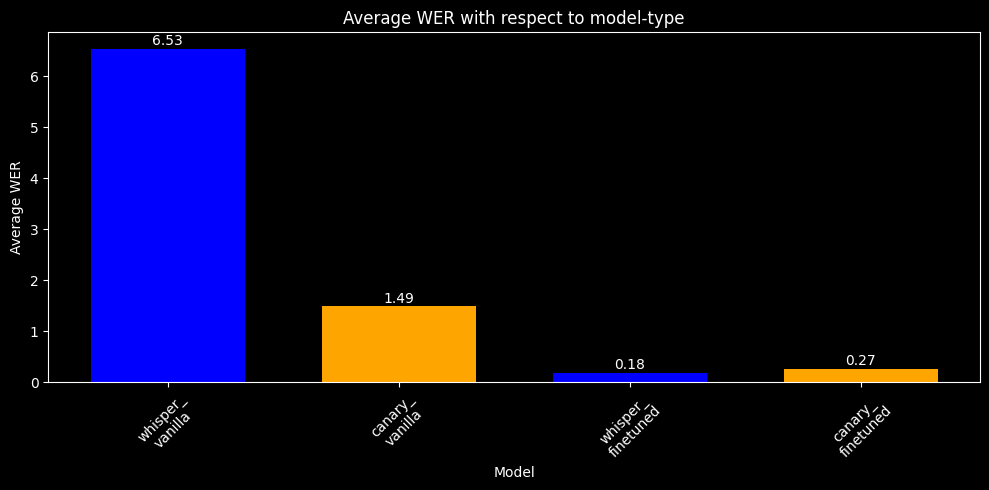
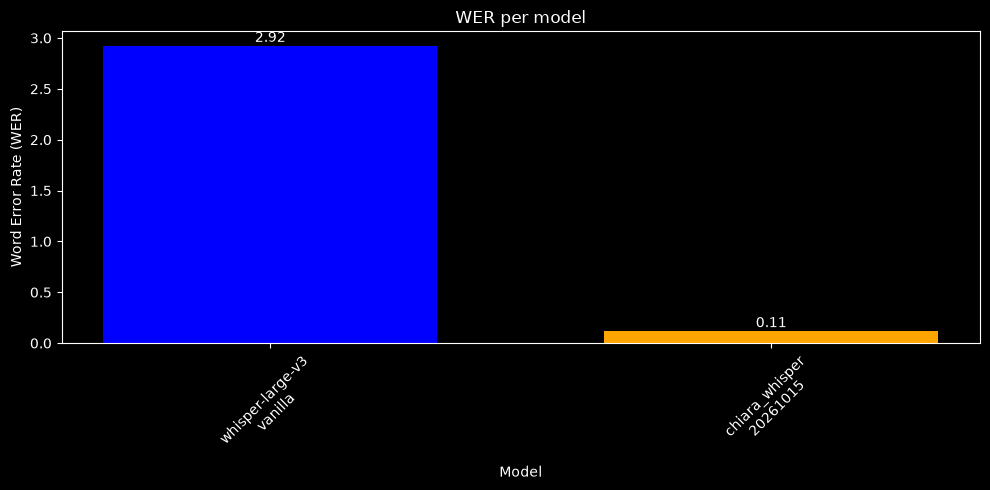
remove unused sections

diff --git a/index.html b/index.html
@@ -96,7 +96,7 @@
         <div class="section base-row add-top-padding" style="margin-top: 20px;">
             <h1 class="tldr">
                 <b>TL;DR</b>:
-                <span class="code-font">chiara-speech2text</span> is a software system to enable speech2text for users with speech impairments
+                <span class="code-font">chiara-speech2text</span> is an open-source software system for speech2text in users with atypical speech
             </h1>
             
             <table style="width: 100%; margin-top: 70px;">
@@ -139,7 +139,7 @@
             <h1> <b>Problem statement</b> </h1>
             <p class="paragraph add-top-padding">
                 Chiara is a very active girl with a passion for chatting and making new friends :) <br>
-                Unfortunately, she suffers from dysarthria and speech impairments due to cerebral palsy.
+                Unfortunately, she suffers from dysarthria and atypical speech due to cerebral palsy.
                 She has difficulties with articulation (pronunciation), fluency (speech rate and rhythm), abnormal tone and echolalia (repetitions). <br>
                 Chiara can not write nor read, and she can only communicate via speech. She mostly communicates through voice messages, on her tablet, via Whatsapp. 
                 However -due to her dysarthria- people have difficulties understanding her voice messages. <br>
@@ -204,10 +204,9 @@
                 </video>
             </p>
 
-
-            <h1> <b>System description</b> </h1>
+            <h1> <b>Open-source repo</b> </h1>
             <p class="paragraph add-top-padding">
-                See the <a href="">project repository</a> for source code, technical descriptions, diagrams.
+                The open-source code and installation instructions can be found in the <a href="">project repository</a>.
             </p>
 
             <h1> <b>Results</b> </h1>
@@ -219,15 +218,12 @@
                 Fine-tuned models (adapted to Chiara's speech) can achieve ~10 times better WER than vanilla models.
             </p>
 
-            <p class="paragraph add-top-padding">
-                The graphs below show the evolution of WER during a typical model-training session.
-                <div class="base-row add-top-padding">
-                    <img id="main-img" src="assets/results_training.png" alt="Results training">
-                </div>
-            </p>
-
+            <!-- trasncripts comparison -->
             <p class="paragraph add-top-padding">            
-                The snippet below shows a comparison of the transcripts between fine-tuned and vanilla models, across different recordings (entries). Each entry:
+                The snippet below shows a comparison of the transcripts between fine-tuned and vanilla models, across different recordings (entries).
+                Fine-tuned models can trasncribe Chiara's speech way more faithfully than vanilla models.
+                
+                Each entry:
                 <ul>
                     <li>is enclosed with <span class="code-font">{}</span></li>
                     <li>contains the following properties:
@@ -328,42 +324,18 @@
                 </pre>
             </p>
 
-            <p class="paragraph add-top-padding">
-                Results can be also easily explored via the <span class="code-font">nvidia-nemo</span> software tool
-                <div class="base-row add-top-padding">
-                    <img id="main-img" src="assets/results_nemo1.png" alt="Results nemo 1">
-                    <img id="main-img" src="assets/results_nemo2.png" alt="Results nemo 2">
-                    <img id="main-img" src="assets/results_nemo3.png" alt="Results nemo 3">
-                </div>
-
-                Results can be also explored via the custom analysis tool
-                <video style="max-width: 1000px; display: block; margin: 0 auto;" autobuffer controls>
-                    <source id="mp4" src="assets/video_analysis-tool.mp4" type="video/mp4">
-                </video>
-            </p>
-
-            <h2> <b>Screenshots of the system</b> </h2>
+            <h2> <b>Screenshots, videos</b> </h2>
             <p class="paragraph add-top-padding">
                 <h3> <b>Frontend</b> </h3>
                 <table style="margin: 0 auto;">
                     <tr>
                         <td>
-                            <img id="main-img" src="assets/screenshot_frontend1.png" alt="Frontend screenshot 1" style="max-height: 500px;"> <br>
-                            Frontend main page
-                        </td>
-                        <td>
                             <img id="main-img" src="assets/screenshot_frontend2.png" alt="Frontend screenshot 2" style="max-height: 500px;"> <br>
                             The frontend allows users to upload custom words/phrases - to train models to their own chosen vocabulary 
                         </td>
-                    </tr>
-                    <tr>
-                        <td>
-                            <img id="main-img" src="assets/screenshot_frontend3.png" alt="Frontend screenshot 3" style="max-height: 500px;"> <br>
-                            Selection of folders with data
-                        </td>
                         <td>
                             <img id="main-img" src="assets/screenshot_frontend4.png" alt="Frontend screenshot 4" style="max-height: 500px;"> <br>
-                            The frontend allows to listen to audio recordings, editing transcripts, delete low-quality data not suitable for training
+                            The frontend allows to curate audio recordings: listen, edit transcripts, delete low-quality data not suitable for training
                         </td>
                     </tr>
                 </table>
@@ -377,20 +349,26 @@
                         </td>
                         <td>
                             <img id="main-img" src="assets/screenshot_keyboard3.jpg" alt="Keyboard screenshot 2" style="max-height: 500px;"> <br>
-                            Keys
+                            The keyboard allows to write using normal keys
                         </td>
                     </tr>
                     <tr>
                         <td>
                             <img id="main-img" src="assets/screenshot_keyboard2.jpg" alt="Keyboard screenshot 1" style="max-height: 500px;"> <br>
-                            Emojis
+                            The keyboard supports emojis
                         </td>
                         <td>
                             <img id="main-img" src="assets/screenshot_keyboard5.jpg" alt="Keyboard screenshot 4" style="max-height: 500px;"> <br>
-                            Settings
+                            The keyboard can be configured through settings
                         </td>
                     </tr>
                 </table>
+
+                <h3> <b>Analysis tool</b> </h3>
+                Performance of the system (e.g. WER) can be explored via a custom analysis tool
+                <video style="max-width: 1000px; display: block; margin: 0 auto;" autobuffer controls>
+                    <source id="mp4" src="assets/video_analysis-tool.mp4" type="video/mp4">
+                </video>
             </p>            
         </div>
     </div>
